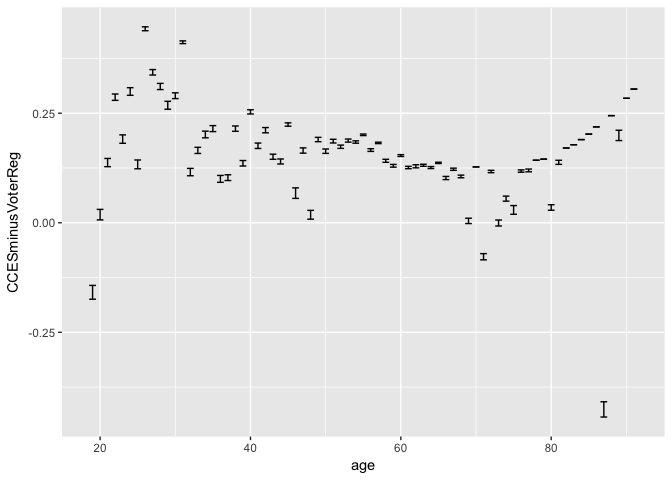
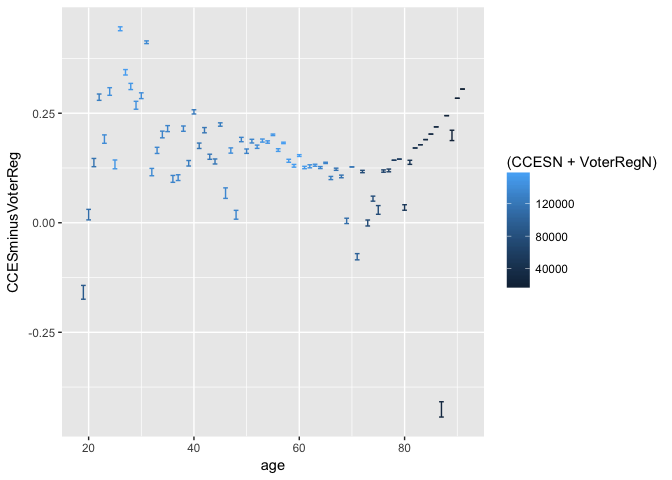
Color by Sample Size

diff --git a/Viz/full_scale_viz.md b/Viz/full_scale_viz.md
@@ -75,7 +75,7 @@ diff <- mutate(merged, CCESminusVoterReg = CCESpercent-VoterRegPercent)
 
 SEdiff <- mutate(diff, SE = sqrt((CCESpercent*(1-CCESpercent))/CCESN)+((VoterRegPercent*(1-VoterRegPercent))/VoterRegN))
 
-ggplot(SEdiff, aes(age, CCESminusVoterReg)) + geom_errorbar(aes(ymin = CCESminusVoterReg - SE, ymax = CCESminusVoterReg + SE))
+ggplot(SEdiff, aes(age, CCESminusVoterReg, col = (CCESN + VoterRegN))) + geom_errorbar(aes(ymin = CCESminusVoterReg - SE, ymax = CCESminusVoterReg + SE))
 ```
 
 ![](full_scale_viz_files/figure-markdown_github/Merge%20and%20Plot-1.png)
